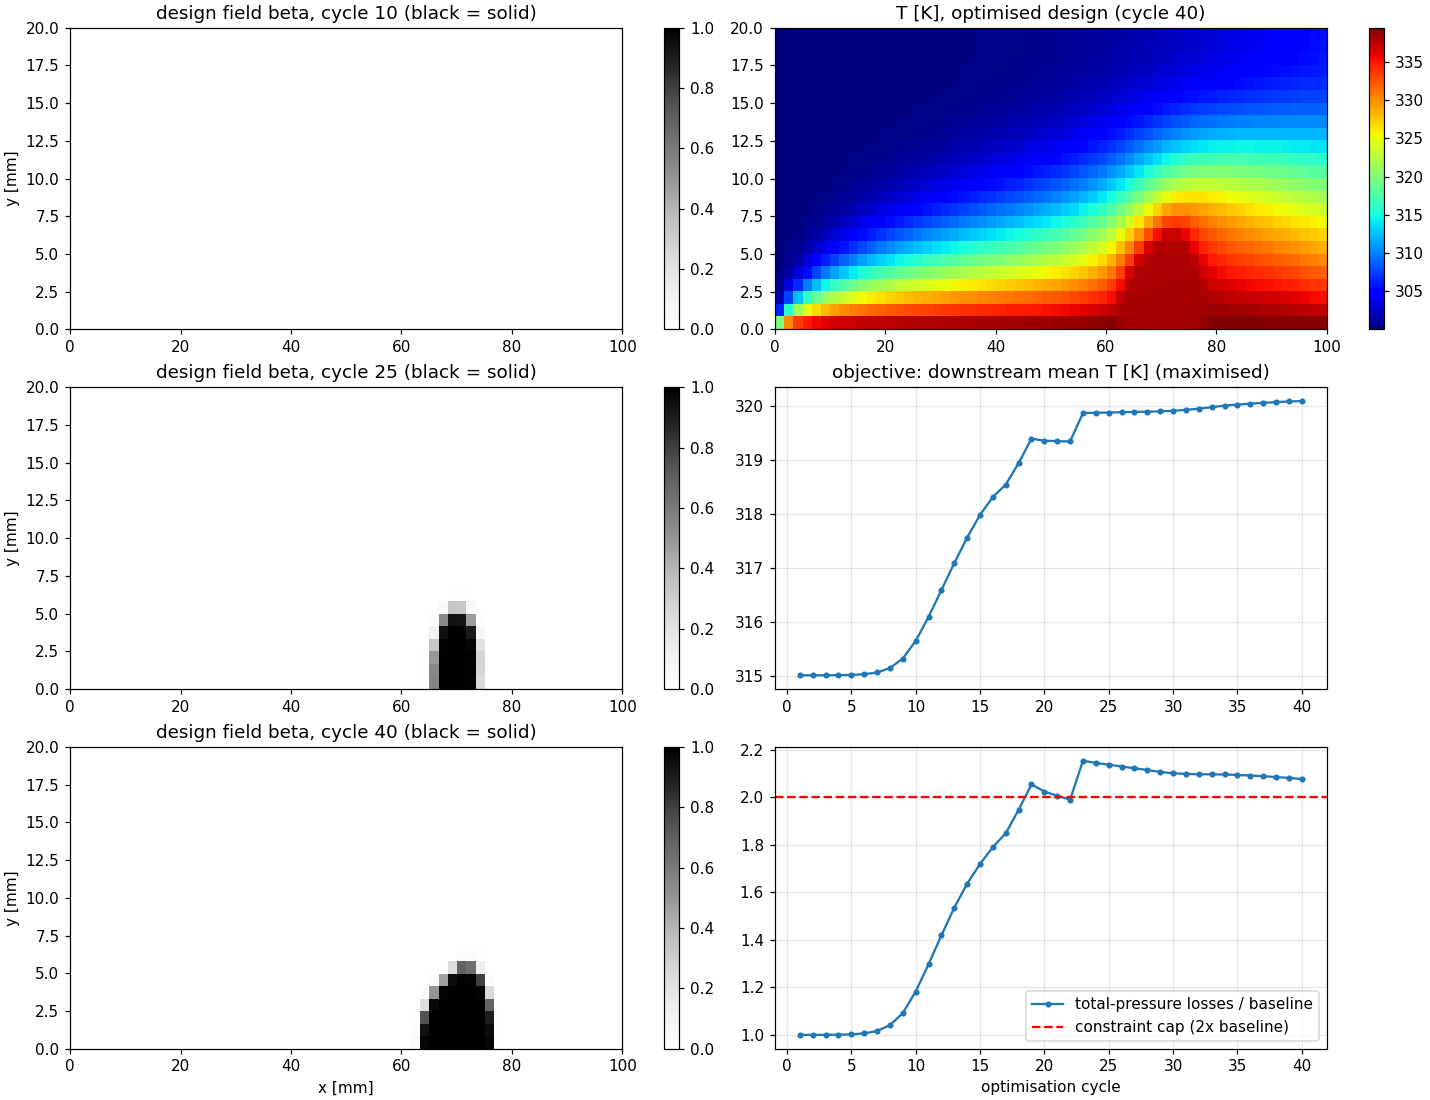
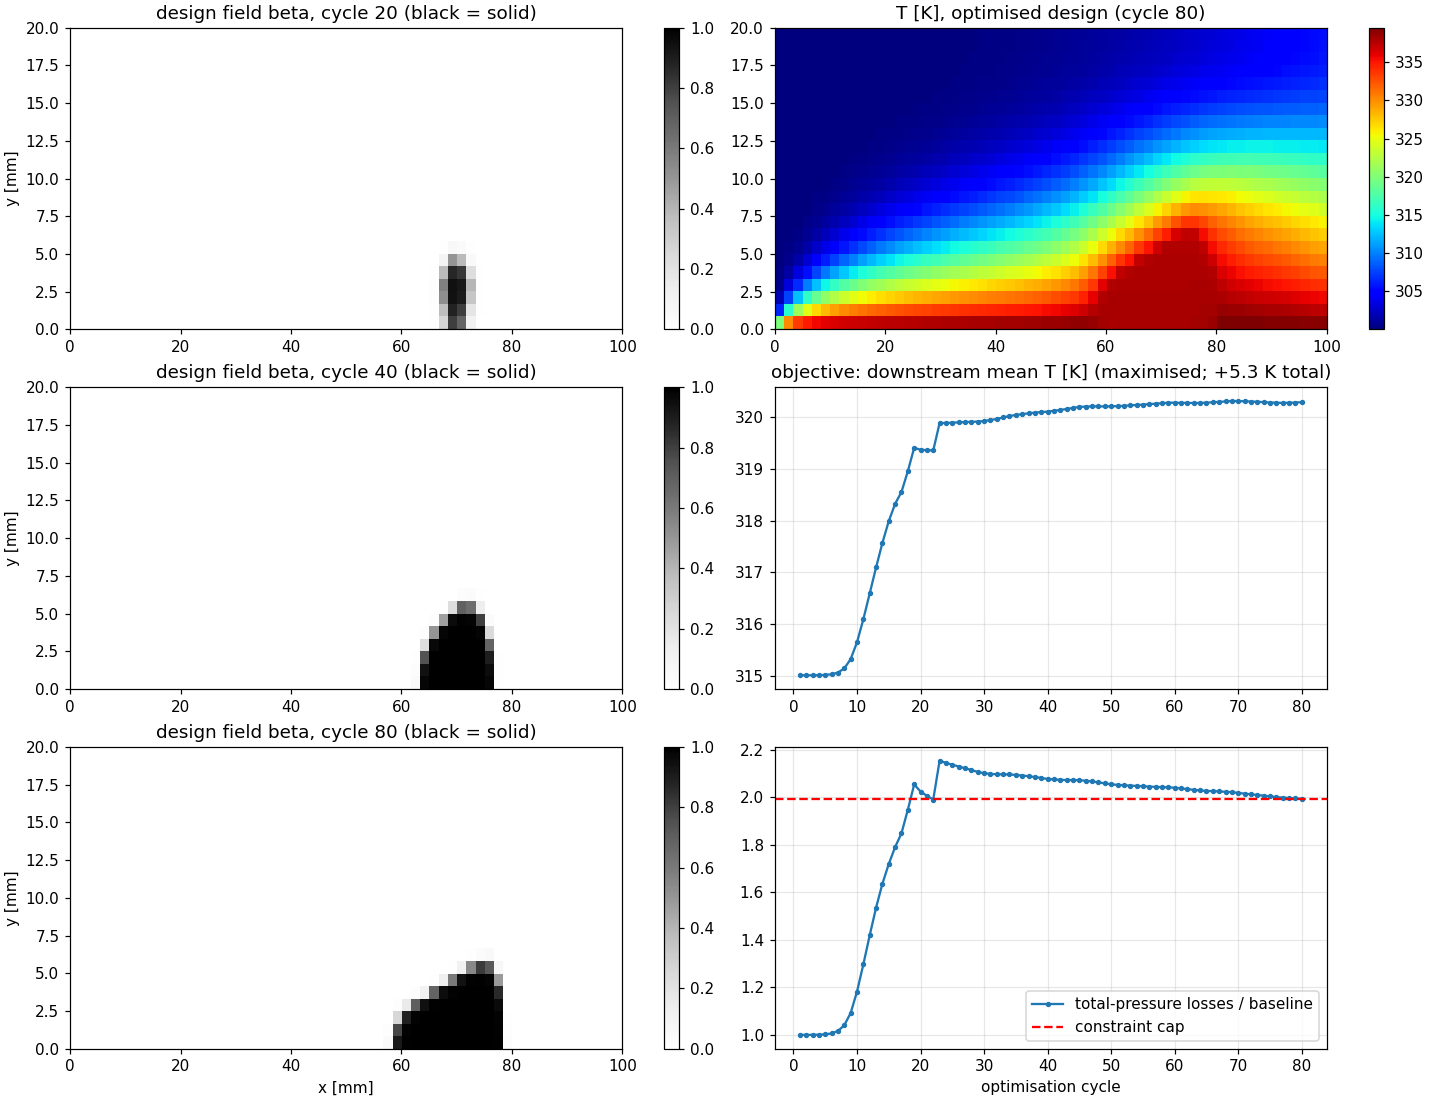
Demo constraint closure: strictly feasible at cap (0.03%) by cycle 80, +5.3 K objective

diff --git a/README.md b/README.md
@@ -154,9 +154,9 @@ initial designs are supplied through the `alpha` field.
 Working examples under `cases/`: `fdcheck` (verification),
 `demo2d` (heat-extraction maximisation under pressure-drop and volume
 constraints). In the demo, the optimiser grows a sharp conductive fin on
-the hot wall, improving the objective by +5.1 K while the nullSpace update
-manages total-pressure losses to within a few per cent of the 2x-baseline
-cap (still converging at cycle 40):
+the hot wall, improving the objective by +5.3 K while the nullSpace update
+brings total-pressure losses to the 2x-baseline cap, strictly feasible to
+within 0.03 % at cycle 80:
 
 ![fin growth demo](docs/figures/demo_fin_growth.png)
 